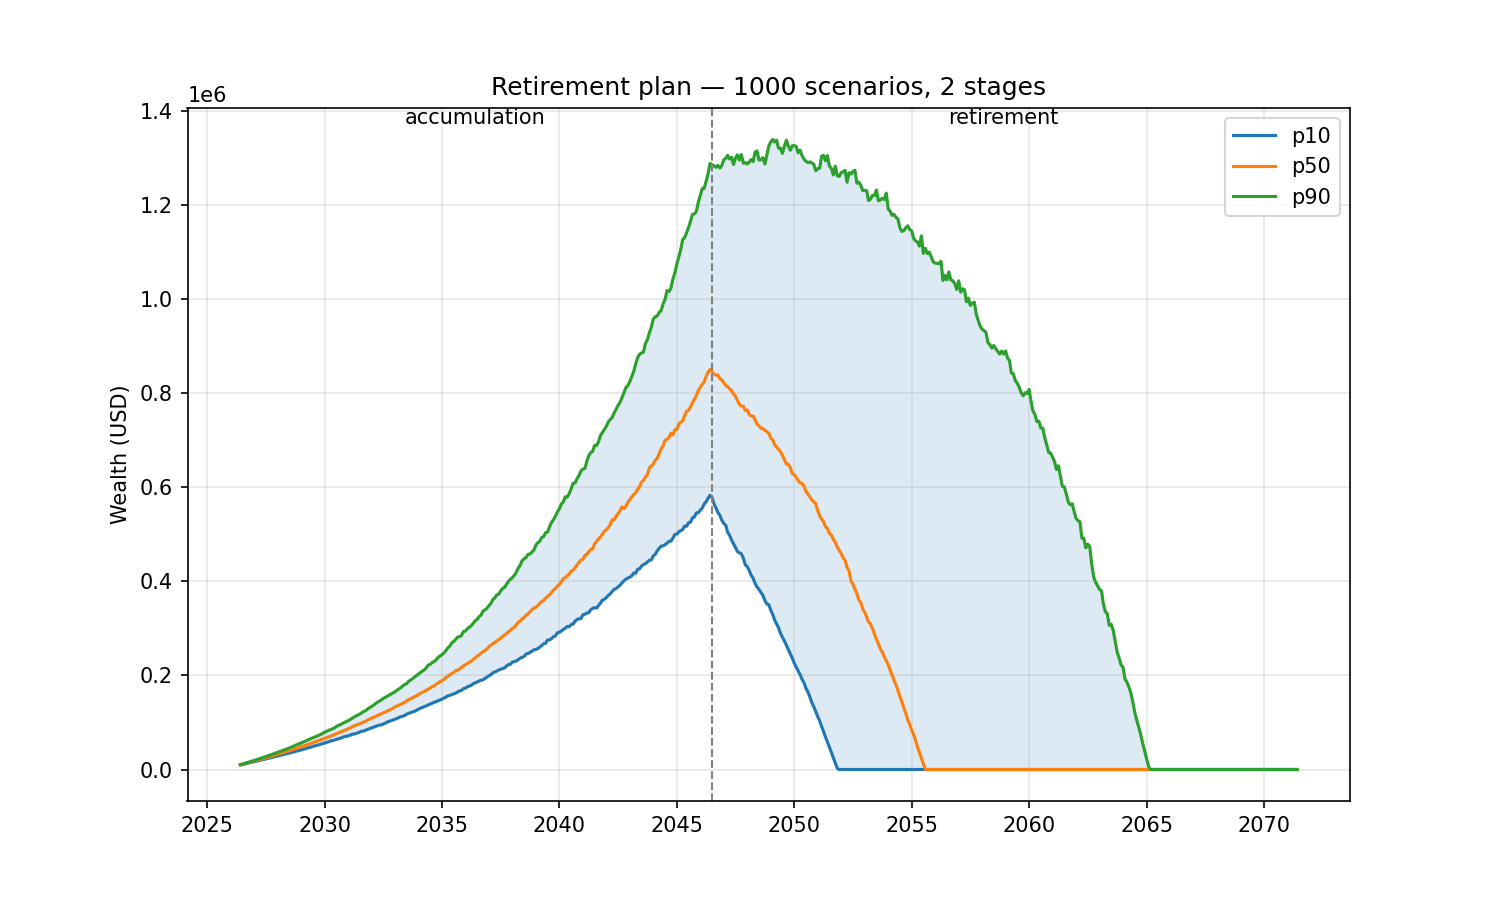
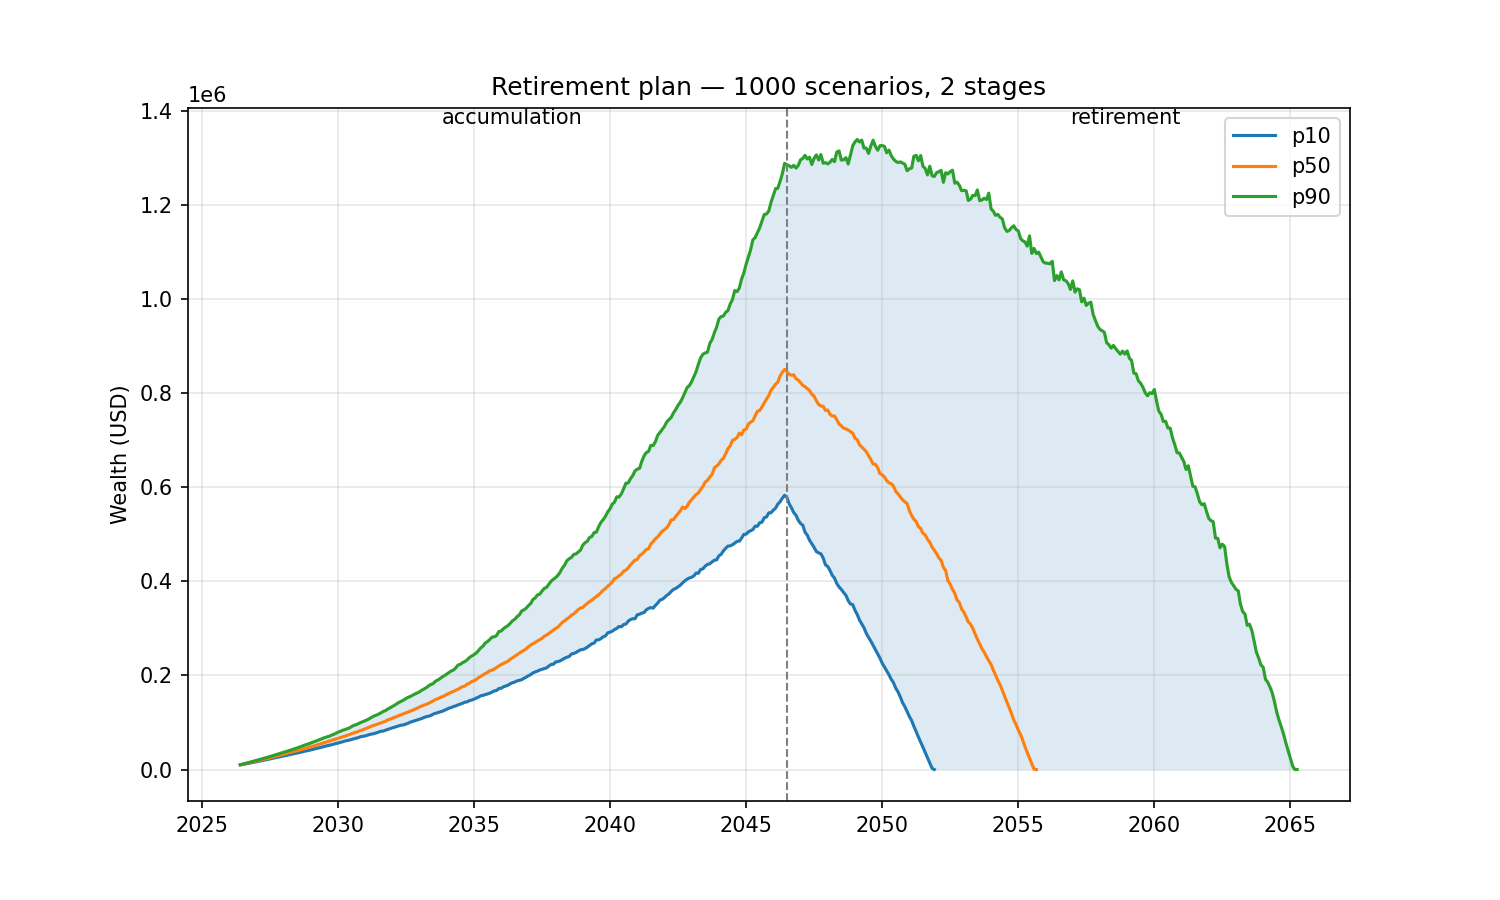
fix(plots): end a plan band where it runs out of money
Once a percentile reaches zero it stays there for the rest of the plan, and
the chart drew that flat run along the axis. It reads as data rather than as
depletion — a viewer cannot tell a plan that went broke in 2065 from one the
tool had nothing to say about. The band now keeps its first zero, so the line
lands on the axis, and is blank after it.

The shaded area keeps filling against a depleted lower band, which is a floor
of zero rather than a hole, and stops where the upper band itself runs out.

Claude-Session: https://claude.ai/code/session_01QFFTrr6VwJUJXgFbZH1s8S

diff --git a/src/okama_mcp/tools/plots.py b/src/okama_mcp/tools/plots.py
@@ -46,6 +46,21 @@ def _render(fig: Any, save_path: str | None) -> Image | list[Image | str]:
     return [image, f"Chart saved to {path}"]
 
 
+def _truncate_at_depletion(values: np.ndarray) -> np.ndarray:
+    """Blank a percentile band after the month it first runs out of money.
+
+    Once a band reaches zero it stays there for the rest of the plan, and a flat
+    run along the axis tells the reader nothing — a depleted plan looks the same
+    as one with no data. Keeping the first zero makes the line land on the axis
+    and stop there, which is the fact worth showing.
+    """
+    out = values.astype(float).copy()
+    (zeros,) = np.nonzero(out <= 0.0)
+    if zeros.size:
+        out[zeros[0] + 1 :] = np.nan
+    return out
+
+
 def _plot_index_values(index: pd.Index) -> pd.Index:
     """PeriodIndex can't be plotted directly — convert to timestamps."""
     return index.to_timestamp() if isinstance(index, pd.PeriodIndex) else index
@@ -411,11 +426,15 @@ def plot_finplan_forecast(
     fig, ax = make_figure(width, height)
     x = _plot_index_values(wealth.index)
     percentiles = sorted(spec.percentiles)
-    bands = {p: wealth.quantile(p / 100.0, axis=1) for p in percentiles}
-    for p, series in bands.items():
-        ax.plot(x, series.values, label=f"p{p}")
+    bands = {p: _truncate_at_depletion(wealth.quantile(p / 100.0, axis=1).values) for p in percentiles}
+    for p, values in bands.items():
+        ax.plot(x, values, label=f"p{p}")
     if len(percentiles) >= 2:
-        ax.fill_between(x, bands[percentiles[0]].values, bands[percentiles[-1]].values, alpha=0.15)
+        # A depleted lower band is a floor of zero, not a hole: keep filling
+        # against it, and stop the fill where the upper band itself runs out.
+        lower = np.nan_to_num(bands[percentiles[0]], nan=0.0)
+        upper = bands[percentiles[-1]]
+        ax.fill_between(x, lower, np.nan_to_num(upper, nan=0.0), where=~np.isnan(upper), alpha=0.15)
 
     # Stage boundaries and labels. monte_carlo_wealth prepends the opening
     # balance one month before t0, so the month at index `month_offset + 1` is

diff --git a/tests/test_tool_plots.py b/tests/test_tool_plots.py
@@ -430,8 +430,10 @@ def _make_finplan_mock() -> SimpleNamespace:
 
 
 class TestPlotFinPlanForecast:
-    def _run(self, **kwargs):
+    def _run(self, _wealth=None, **kwargs):
         plan = _make_finplan_mock()
+        if _wealth is not None:
+            plan.monte_carlo_wealth = MagicMock(return_value=_wealth)
         captured: dict = {}
         real_make_figure = plots_tool.make_figure
 
@@ -478,6 +480,22 @@ class TestPlotFinPlanForecast:
         # A depleted scenario must flatline at zero on the chart rather than
         # dragging the bands into negative territory.
         self.plan.monte_carlo_wealth.assert_called_once_with(discounting="fv", include_negative_values=False)
+
+    def test_stops_a_band_where_it_runs_out_of_money(self) -> None:
+        # A percentile that hits zero stays zero for the rest of the plan. Drawing
+        # that flat run says nothing — the reader cannot tell a depleted plan from
+        # a plan with no data — so the line must end on the first zero.
+        idx = pd.period_range("2024-12", periods=25, freq="M")
+        depleting = np.concatenate([np.linspace(100_000, 0, 20), np.zeros(5)])
+        wealth = pd.DataFrame({f"s{i}": depleting for i in range(4)}, index=idx)
+        _, ax = self._run(_wealth=wealth)
+        (line,) = [ln for ln in ax.get_lines() if ln.get_label() == "p50"]
+        y = np.asarray(line.get_ydata(), dtype=float)
+        drawn = y[~np.isnan(y)]
+        # The drawn part ends on the first zero; the rest is blank, not flat.
+        assert len(drawn) == 20, f"expected 20 drawn points, got {len(drawn)}"
+        assert drawn[-1] == 0.0
+        assert np.isnan(y[20:]).all()
 
     def test_labels_the_axis_with_the_plan_currency(self) -> None:
         _, ax = self._run()
